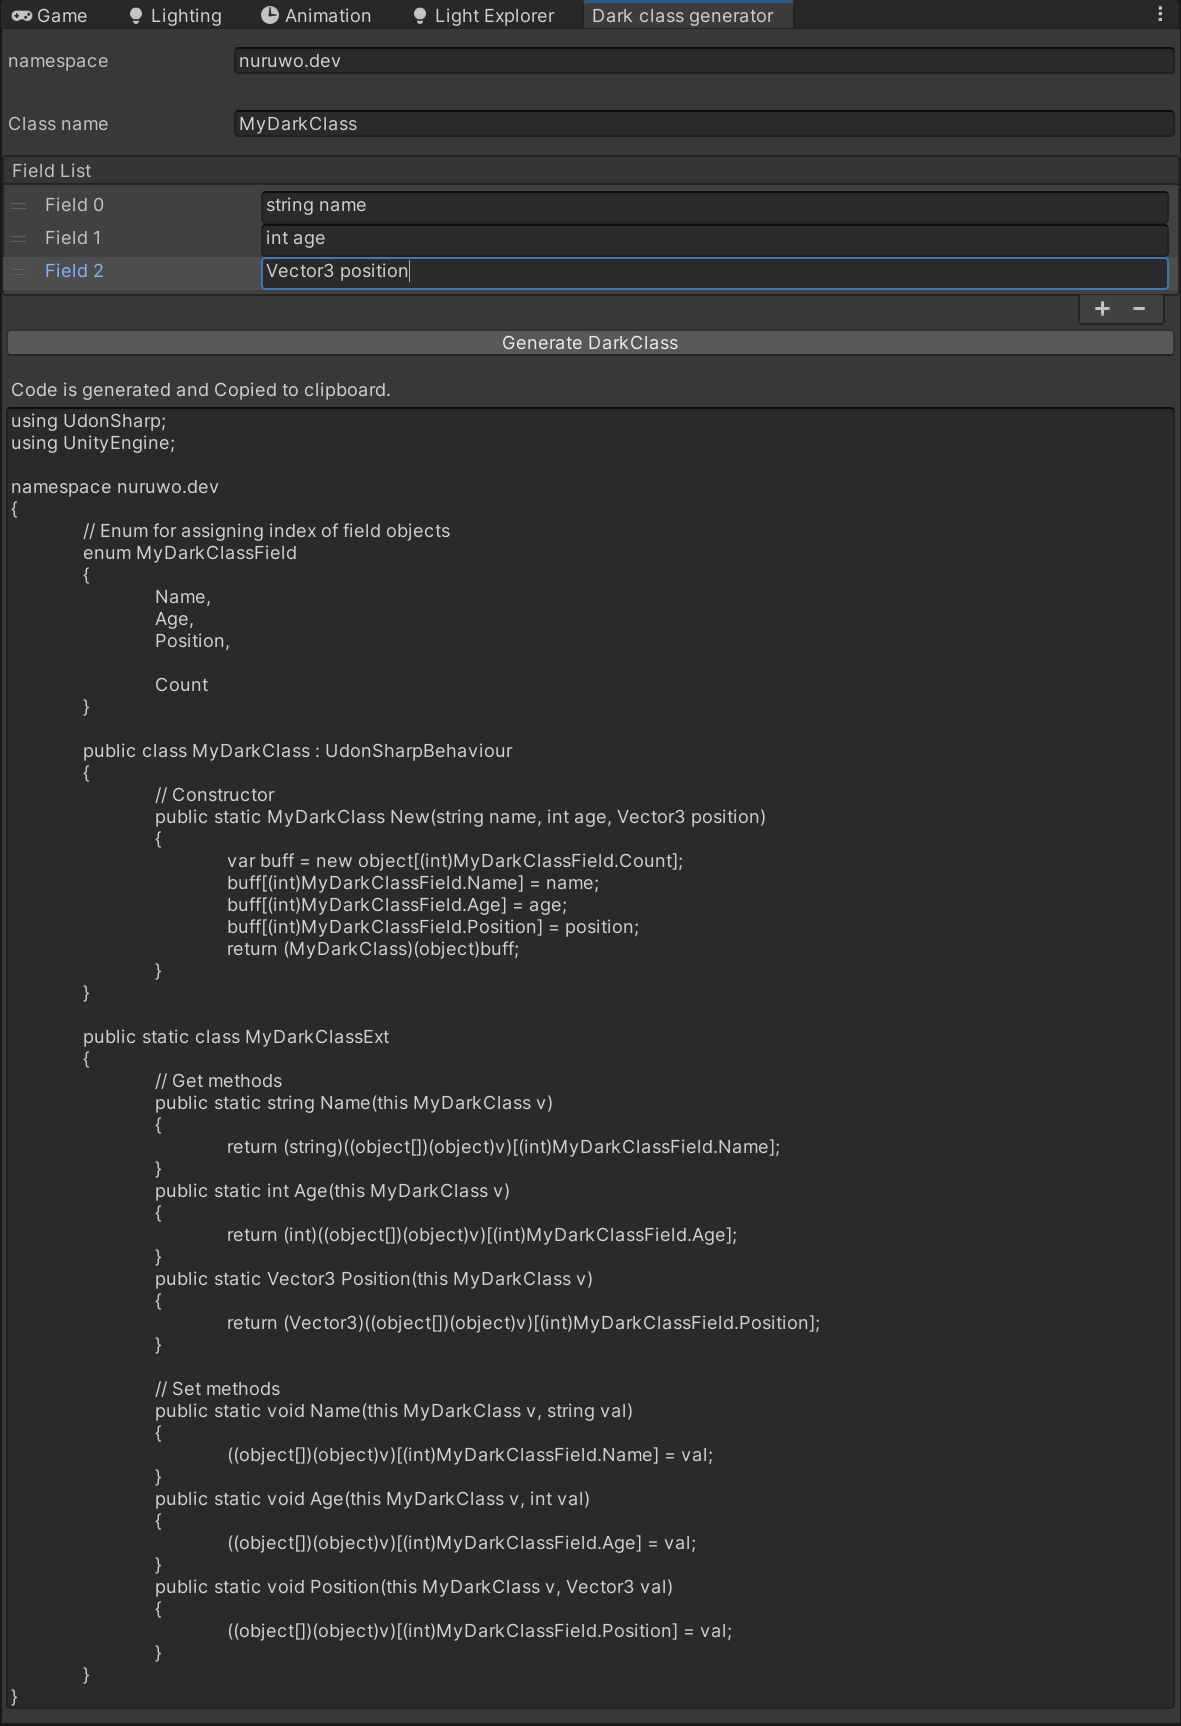
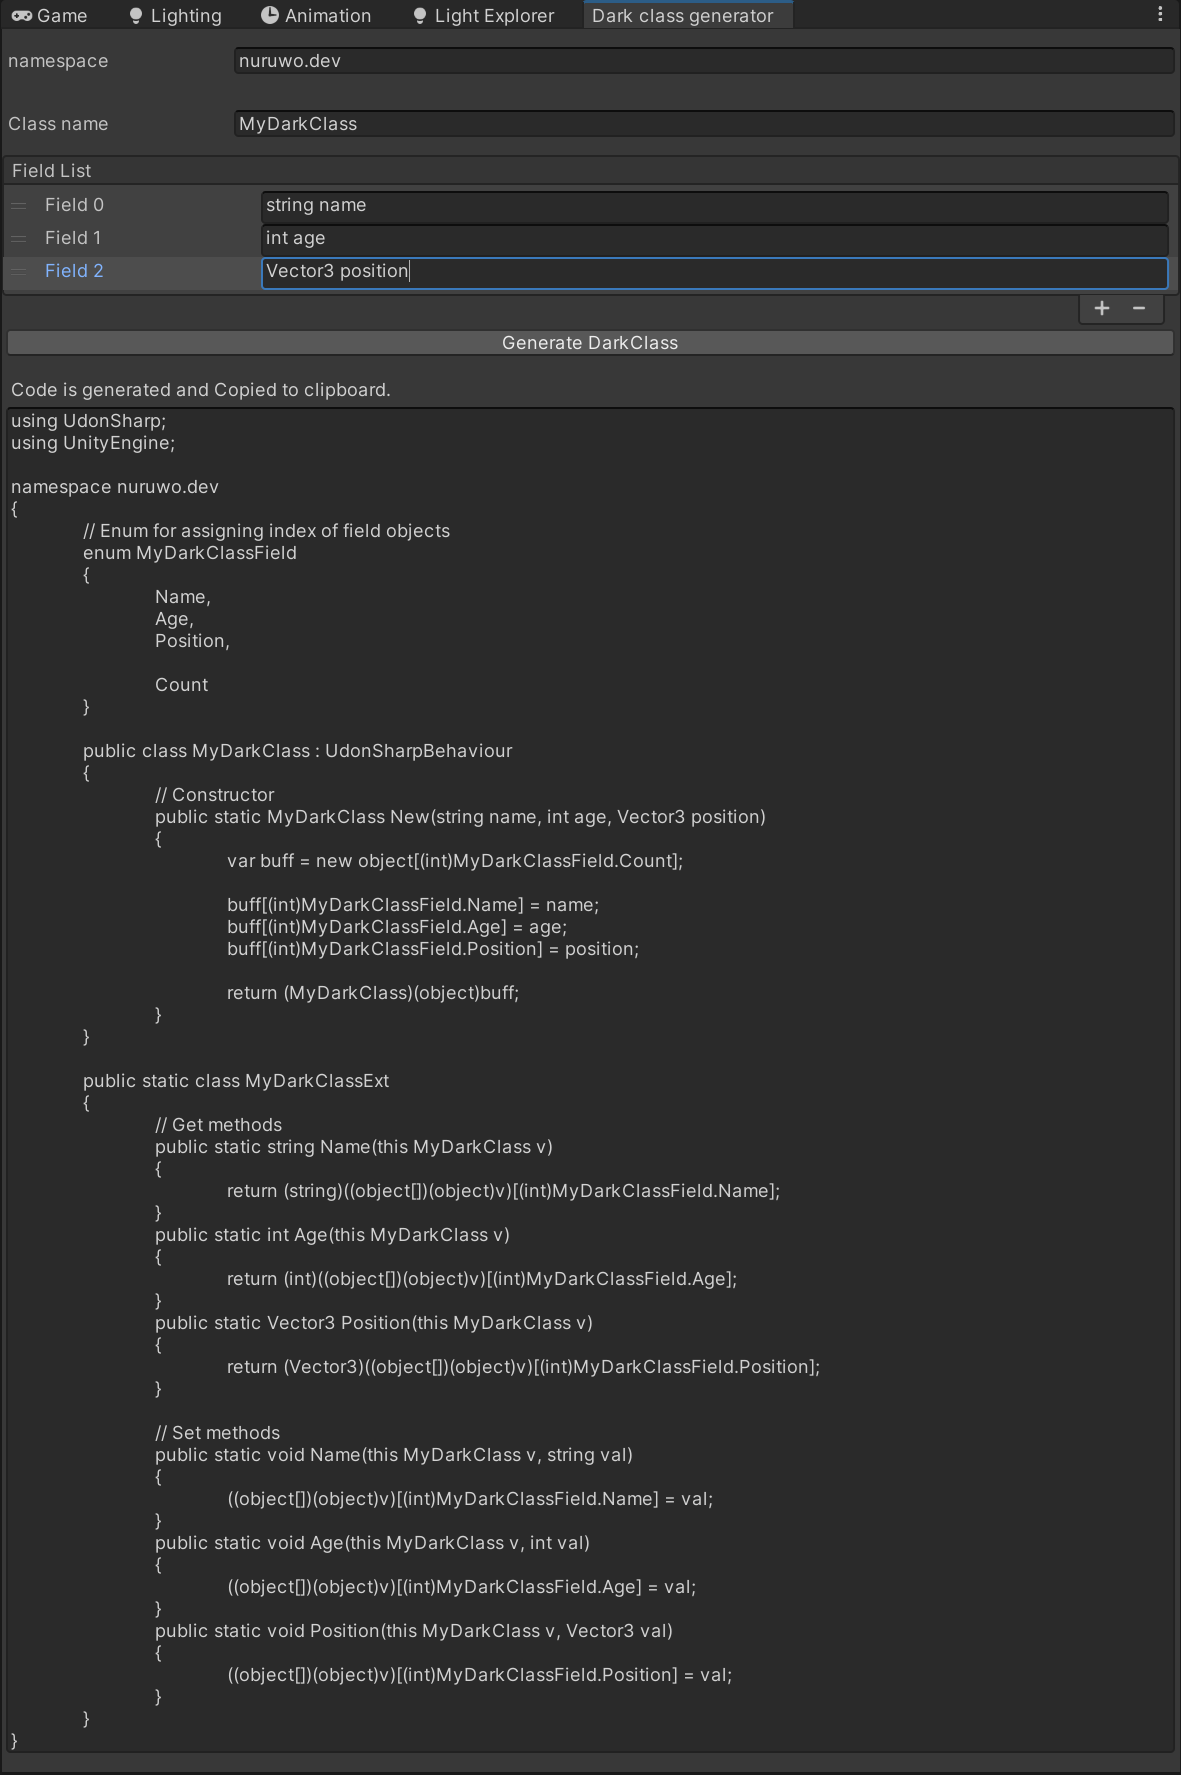
Adjust

diff --git a/Editor/DarkClassGeneratorEditorWindow.cs b/Editor/DarkClassGeneratorEditorWindow.cs
@@ -87,8 +87,6 @@ namespace Nuruwo
             EditorGUILayout.EndScrollView();
         }
 
-        /*------------------------------ Generate Function ------------------------------*/
-
         private string GenerateDarkClass()
         {
             var sb = new StringBuilder();
@@ -129,8 +127,6 @@ namespace Nuruwo
             //result
             return sb.ToString();
         }
-        
-        /*------------------------------ Generate Parts Functions ------------------------------*/
         private string GenerateClassFooter(bool nameSpaceIsExist)
         {
             return nameSpaceIsExist ? "\t}\r\n" : "}\r\n";
@@ -207,6 +203,8 @@ namespace Nuruwo
             sb.AppendLine($")");
             sb.AppendLine($"{{");
             sb.AppendLine($"\tvar buff = new object[(int){enumName}.Count];");
+            sb.AppendLine();
+
             var buffBase = $"\tbuff[(int)";
             foreach (var argument in fieldList)
             {
@@ -217,6 +215,7 @@ namespace Nuruwo
                 sb.AppendLine($"{buffBase}{enumName}.{pArgumentName}] = {argumentName};");
             }
 
+            sb.AppendLine();
             sb.AppendLine($"\treturn ({pClassName})(object)buff;");
             sb.AppendLine($"}}");
             return sb.ToString();
